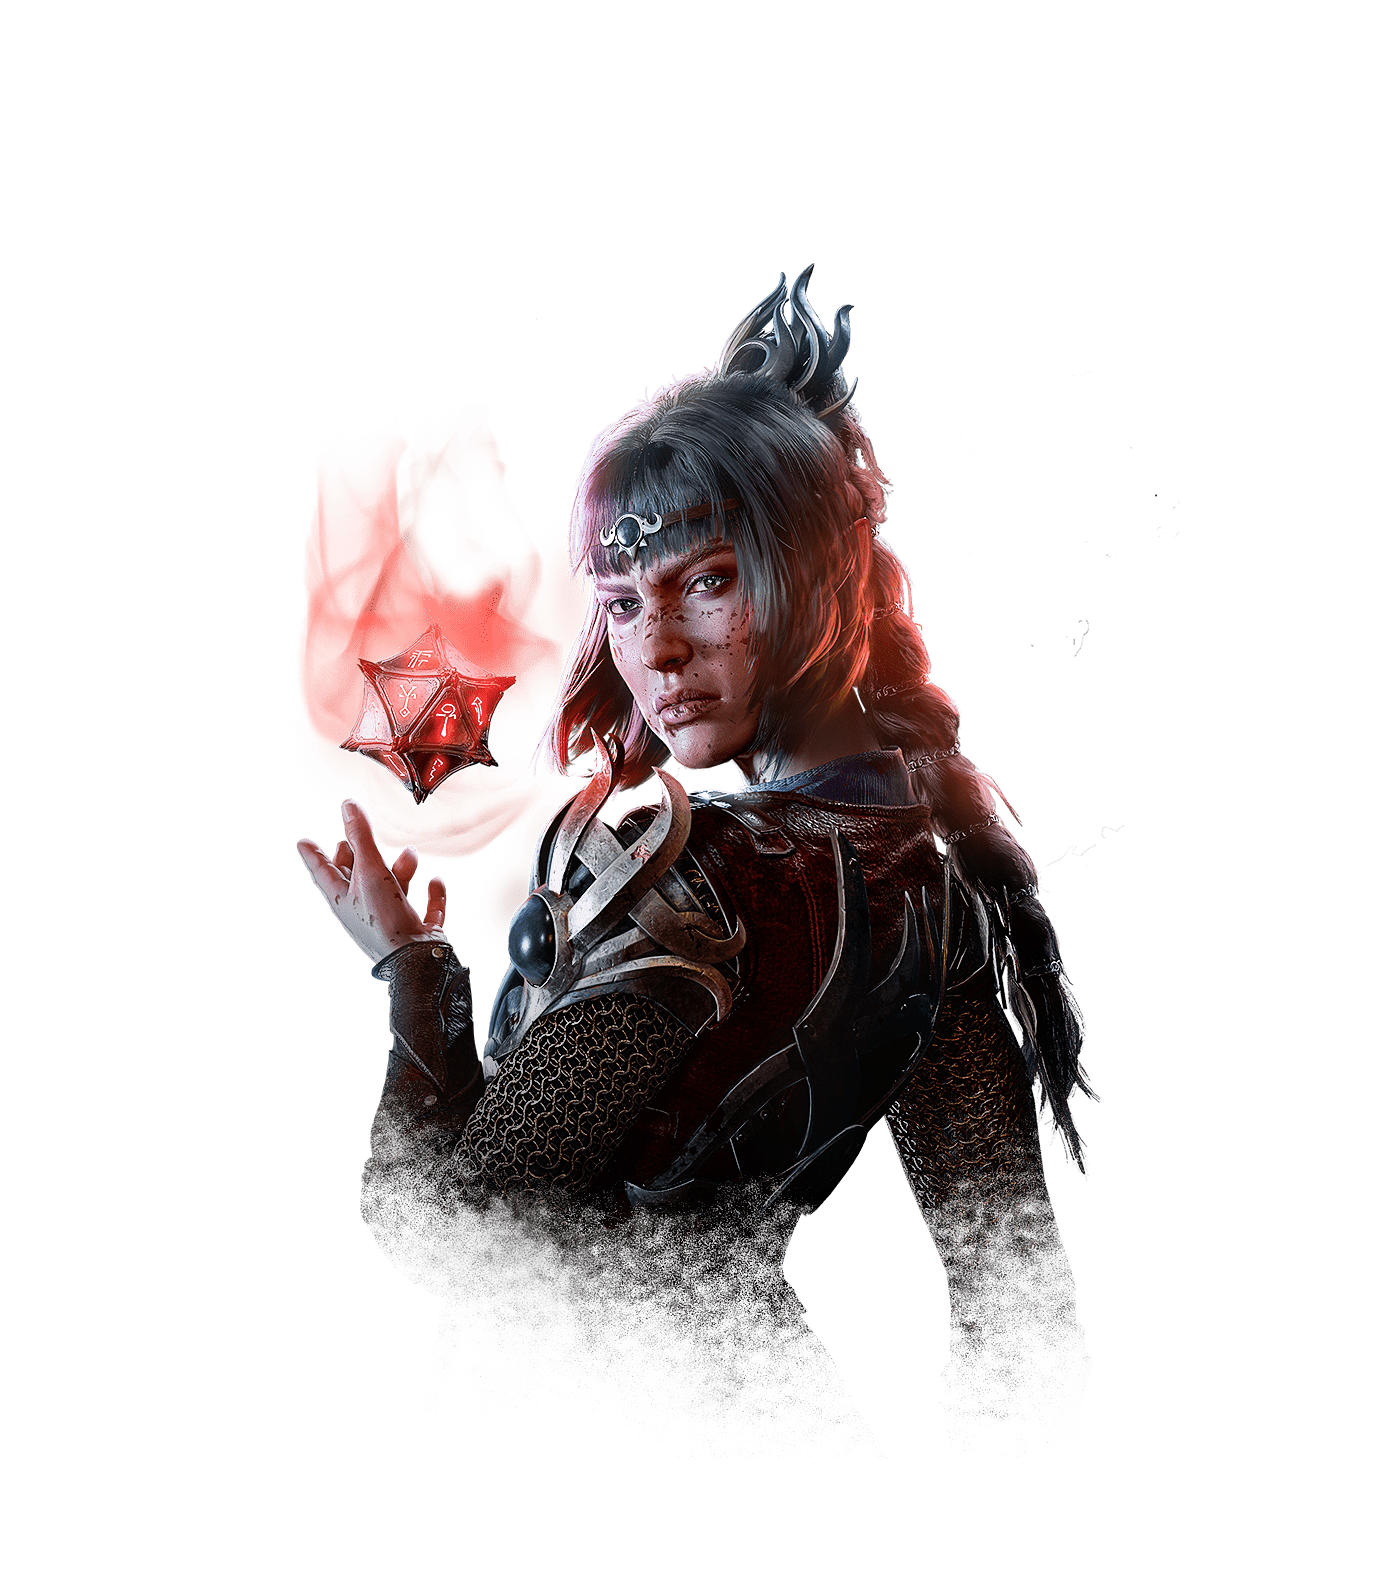
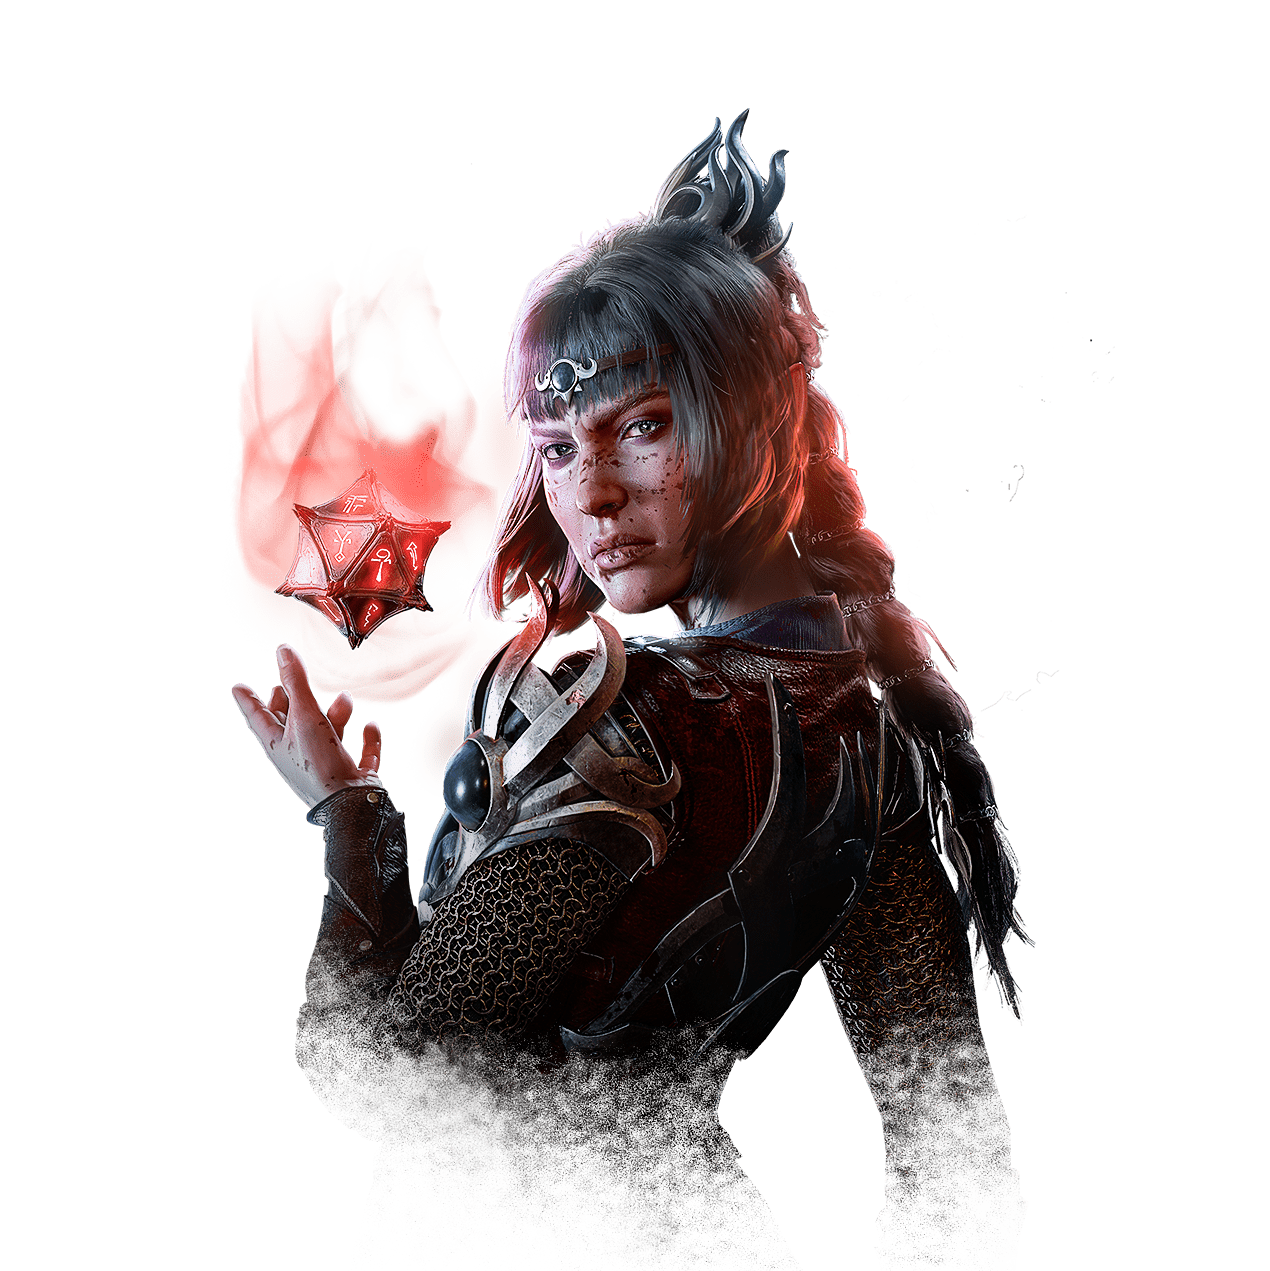
Added class descriptions

Changed region(s): [[0.1843, 0.0921, 0.8291, 0.9819]]

diff --git a/constants/classDescriptions.tsx b/constants/classDescriptions.tsx
@@ -1,0 +1,50 @@
+export const descriptions = [
+    {
+        className: 'Cleric',
+        description: 'Clerics are intermediaries between the mortal world and the distant planes of the gods. As varied as the gods they serve, clerics strive to embody the handiwork of their deities. No ordinary priest, a cleric is imbued with divine magic.'
+    },
+    {
+        className: 'Bard',
+        description:'Whether scholar, skald, or scoundrel, a bard weaves magic through words and music to inspire allies, demoralize foes, manipulate minds, create illusions, and even heal wounds.'
+    },
+    {
+        className: 'Rogue',
+        description:'Rogues rely on skill, stealth, and their foes’ vulnerabilities to get the upper hand in any situation. They have a knack for finding the solution to just about any problem, demonstrating a resourcefulness and versatility that is the cornerstone of any successful adventuring party.'
+    },
+    {
+        className: 'Ranger',
+        description:'Far from the bustle of cities and towns, past the hedges that shelter the most distant farms from the terrors of the wild, amid the dense-packed trees of trackless forests and across wide and empty plains, rangers keep their unending watch.'
+    },
+    {
+        className: 'Wizard',
+        description:'Wizards are supreme magic-users, defined and united as a class by the spells they cast. Drawing on the subtle weave of magic that permeates the cosmos, wizards cast spells of explosive fire, arcing lightning, subtle deception, and brute-force mind control. Their magic conjures monsters from other planes of existence, glimpses the future, or turns slain foes into zombies. Their mightiest spells change one substance into another, call meteors down from the sky, or open portals to other worlds.'
+    },
+    {
+        className: 'Warlock',
+        description:'Warlocks are seekers of the knowledge that lies hidden in the fabric of the multiverse. Through pacts made with mysterious beings of supernatural power, warlocks unlock magical effects both subtle and spectacular. Drawing on the ancient knowledge of beings such as fey nobles, demons, devils, hags, and alien entities of the Far Realm, warlocks piece together arcane secrets to bolster their own power.'
+    },
+    {
+        className: 'Sorcerer',
+        description:'Sorcerers carry a magical birthright conferred upon them by an exotic bloodline, some otherworldly influence, or exposure to unknown cosmic forces. One can’t study sorcery as one learns a language, any more than one can learn to live a legendary life. No one chooses sorcery; the power chooses the sorcerer.'
+    },
+    {
+        className: 'Fighter',
+        description:'All of these heroes are fighters, perhaps the most diverse class of characters in the worlds of Dungeons & Dragons. Questing knights, conquering overlords, royal champions, elite foot soldiers, hardened mercenaries, and bandit kings — as fighters, they all share an unparalleled mastery with weapons and armor, and a thorough knowledge of the skills of combat. And they are well acquainted with death, both meting it out and staring it defiantly in the face.'
+    },
+    {
+        className: 'Druid',
+        description:'Whether calling on the elemental forces of nature or emulating the creatures of the animal world, druids are an embodiment of nature’s resilience, cunning, and fury. They claim no mastery over nature. Instead, they see themselves as extensions of nature’s indomitable will.'
+    },
+    {
+        className: 'Barbarian',
+        description:'These barbarians, different as they might be, are defined by their rage: unbridled, unquenchable, and unthinking fury. More than a mere emotion, their anger is the ferocity of a cornered predator, the unrelenting assault of a storm, the churning turmoil of the sea. For some, their rage springs from a communion with fierce animal spirits. Others draw from a roiling reservoir of anger at a world full of pain. For every barbarian, rage is a power that fuels not just a battle frenzy but also uncanny reflexes, resilience, and feats of strength.'
+    },
+    {
+        className: 'Monk',
+        description:'Whatever their discipline, monks are united in their ability to magically harness the energy that flows in their bodies. Whether channeled as a striking display of combat prowess or a subtler focus of defensive ability and speed, this energy infuses all that a monk does.'
+    },
+    {
+        className: 'Paladin',
+        description:'Whatever their origin and their mission, paladins are united by their oaths to stand against the forces of evil. Whether sworn before a god’s altar and the witness of a priest, in a sacred glade before nature spirits and fey beings, or in a moment of desperation and grief with the dead as the only witness, a paladin’s oath is a powerful bond. It is a source of power that turns a devout warrior into a blessed champion.'
+    }
+];

diff --git a/components/class.tsx b/components/class.tsx
@@ -1,18 +1,32 @@
 import { ClassInfo } from "@models/classInfo";
 import Image from 'next/image';
+import {descriptions} from '../constants/classDescriptions';
 
 export default function Class({ classInfo }: { classInfo: ClassInfo }) {
+
+    const classDescription = descriptions.find(description=>{
+        return description.className === classInfo.name;
+    });
+
+    console.log(classInfo.name);
+
     return (
         <>
             <div className="bg-black rounded-md w-full">
                 <div className="m-6">
                     <div className="text-center text-white text-2xl">{classInfo.name}</div>
-                    <Image
-                        src={'/assets/images/classes/' + classInfo.name + '.png'}
-                        alt='Class reference image'
-                        width={1000}
-                        height={0}
-                    ></Image>
+                    <div className="flex">
+                        <Image
+                            src={'/assets/images/classes/' + classInfo.name + '.png'}
+                            alt='Class reference image'
+                            width={800}
+                            height={0}
+                        ></Image>
+                        <div className="text-slate-200">
+                            {classDescription?.description}
+                        </div>
+                    </div>
+
                 </div>
             </div>
         </>
